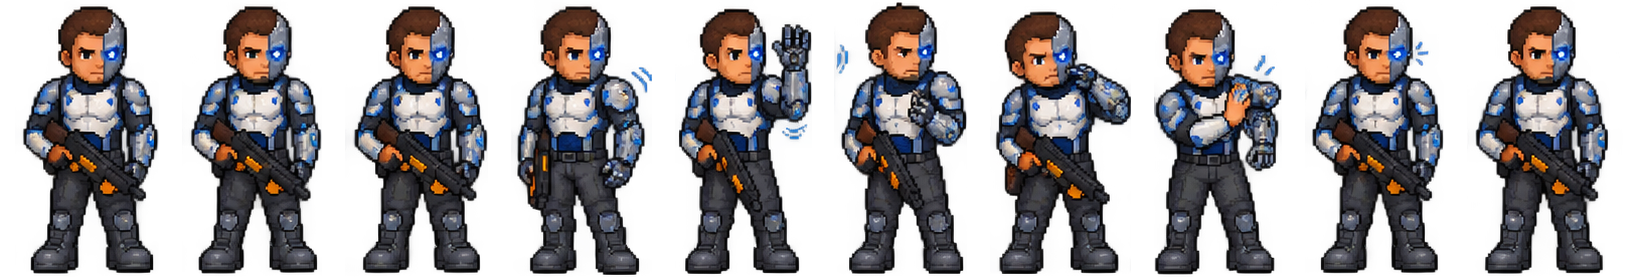
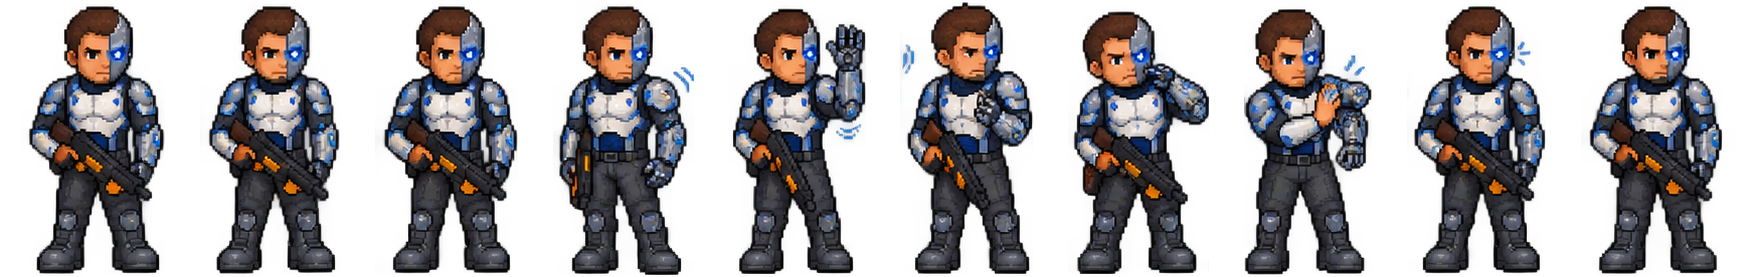
COMMANDO: idle frames drop neighbour slivers and get empty side gutters, so no stray pixels or glow show at a figure's sides

Changed region(s): [[0.0, 0.0289, 1.0, 1.0], [0.7975, 0.1155, 0.8282, 0.1444]]

diff --git a/contra/src/art.gen.js b/contra/src/art.gen.js
@@ -1572,7 +1572,7 @@ CG.DATA.art = {
  "idle": {
   "razor": {
    "path": "assets/atlas/idle_razor.png",
-   "fw": 185,
+   "fw": 197,
    "fh": 280,
    "bh": 278,
    "n": 10,
@@ -1580,7 +1580,7 @@ CG.DATA.art = {
   },
   "nova": {
    "path": "assets/atlas/idle_nova.png",
-   "fw": 210,
+   "fw": 222,
    "fh": 289,
    "bh": 287,
    "n": 10,
@@ -1588,7 +1588,7 @@ CG.DATA.art = {
   },
   "kite": {
    "path": "assets/atlas/idle_kite.png",
-   "fw": 197,
+   "fw": 209,
    "fh": 290,
    "bh": 277,
    "n": 10,
@@ -1596,7 +1596,7 @@ CG.DATA.art = {
   },
   "brick": {
    "path": "assets/atlas/idle_brick.png",
-   "fw": 192,
+   "fw": 204,
    "fh": 264,
    "bh": 247,
    "n": 10,
@@ -1604,7 +1604,7 @@ CG.DATA.art = {
   },
   "volt": {
    "path": "assets/atlas/idle_volt.png",
-   "fw": 184,
+   "fw": 196,
    "fh": 295,
    "bh": 275,
    "n": 10,
@@ -1612,7 +1612,7 @@ CG.DATA.art = {
   },
   "ghost": {
    "path": "assets/atlas/idle_ghost.png",
-   "fw": 177,
+   "fw": 189,
    "fh": 269,
    "bh": 267,
    "n": 10,
@@ -1620,7 +1620,7 @@ CG.DATA.art = {
   },
   "hammer": {
    "path": "assets/atlas/idle_hammer.png",
-   "fw": 168,
+   "fw": 180,
    "fh": 255,
    "bh": 253,
    "n": 10,
@@ -1628,7 +1628,7 @@ CG.DATA.art = {
   },
   "viper": {
    "path": "assets/atlas/idle_viper.png",
-   "fw": 171,
+   "fw": 183,
    "fh": 283,
    "bh": 281,
    "n": 10,
@@ -1636,7 +1636,7 @@ CG.DATA.art = {
   },
   "atlas": {
    "path": "assets/atlas/idle_atlas.png",
-   "fw": 163,
+   "fw": 175,
    "fh": 277,
    "bh": 271,
    "n": 10,
@@ -1644,7 +1644,7 @@ CG.DATA.art = {
   },
   "jax": {
    "path": "assets/atlas/idle_jax.png",
-   "fw": 206,
+   "fw": 218,
    "fh": 444,
    "bh": 348,
    "n": 10,
@@ -1652,7 +1652,7 @@ CG.DATA.art = {
   },
   "duke": {
    "path": "assets/atlas/idle_duke.png",
-   "fw": 200,
+   "fw": 212,
    "fh": 352,
    "bh": 350,
    "n": 10,

diff --git a/contra/tools/build_art.py b/contra/tools/build_art.py
@@ -641,6 +641,24 @@ def build_idle():
             out.append(lo + int(np.argmin(proj[lo:hi])))
         out.append(len(proj))
         return out
+    def own_pixels(piece):
+        # a cut can carry a sliver of the neighbouring pose (a few pixels of its rifle, or its faint glow) along the
+        # left / right edge; keep the pose itself (and anything floating inside the frame, like a thrown grenade) and
+        # drop the small bits that touch a side
+        p = piece.copy()
+        lab, n = ndimage.label(ndimage.binary_dilation(p[..., 3] > 0, iterations=1))
+        if n < 2:
+            return p
+        sizes = ndimage.sum(p[..., 3] > 0, lab, range(1, n + 1))
+        big = sizes.max()
+        w = p.shape[1]
+        for i in range(1, n + 1):
+            xs = np.nonzero((lab == i).any(0))[0]
+            touches = xs[0] == 0 or xs[-1] == w - 1
+            near_side = xs.mean() < w * 0.15 or xs.mean() > w * 0.85
+            if touches and (sizes[i - 1] < big * 0.25 or near_side) and sizes[i - 1] < big:
+                p[lab == i] = 0
+        return p
     cells_of = {}
     for name, ids in IDLE_GROUPS:
         g = load(os.path.join('idle', name))
@@ -659,7 +677,7 @@ def build_idle():
             xs = cuts((band[..., 3] > 30).sum(0), 10, cw)
             fr = []
             for c in range(10):
-                piece = band[:, xs[c]:xs[c + 1]]
+                piece = own_pixels(band[:, xs[c]:xs[c + 1]])
                 if (piece[..., 3] > 30).sum() < 200:
                     continue
                 fr.append((piece, xs[c] - int(c * cw), 0))
@@ -669,8 +687,11 @@ def build_idle():
     for aid, (fr, cw, ch) in cells_of.items():
         # a frame is never smaller than what is drawn in it: a pose that pokes past its grid cell makes every frame of
         # that agent a little bigger instead of being clipped (nothing may be cut off)
-        left = max([0] + [-dx for _, dx, _ in fr])                     # room for pieces that start before their cell
-        cw = max(cw, max(dx + left + c.shape[1] for c, dx, _ in fr))
+        # room for pieces that start before their cell, plus an empty gutter on both sides of every frame so the
+        # menu's scaled animation never shows a sliver of the frame next to it
+        GUT = 6
+        left = max([0] + [-dx for _, dx, _ in fr]) + GUT
+        cw = max(cw, max(dx + left + c.shape[1] for c, dx, _ in fr)) + GUT
         top = max([0] + [-dy for _, _, dy in fr])
         ch = max(dy + top + c.shape[0] for c, _, dy in fr)                # as tall as the poses, no empty headroom
         sheet = Image.new('RGBA', (cw * len(fr), ch), (0, 0, 0, 0))
